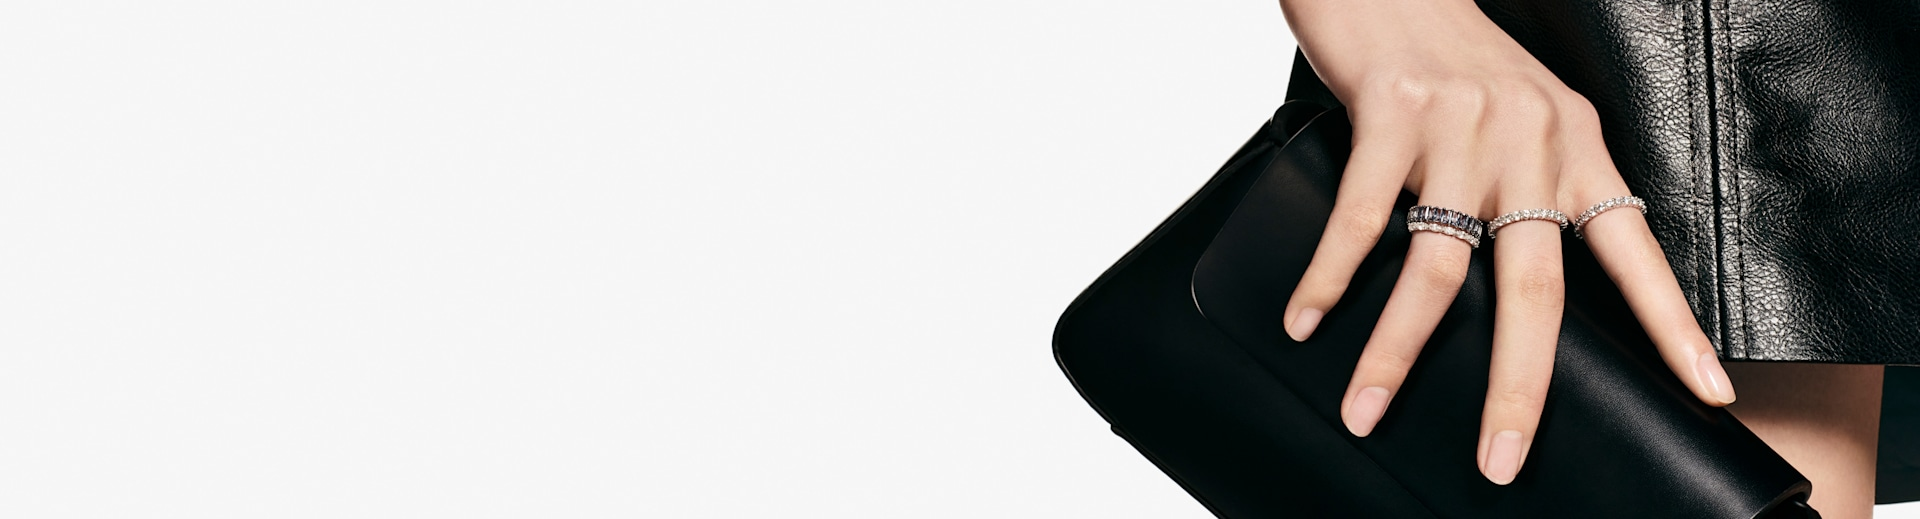
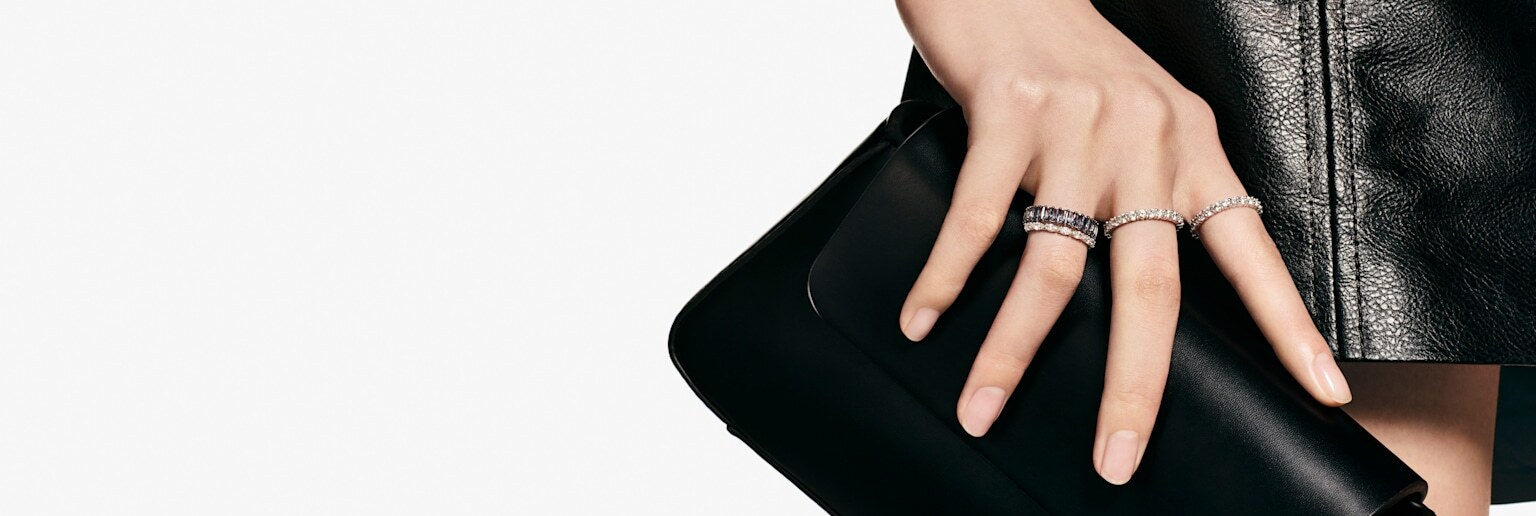
13-11-24 Mejoras Productos

diff --git a/src/pages/Aros/Aros.jsx b/src/pages/Aros/Aros.jsx
@@ -1,137 +1,61 @@
-// src/pages/Anillos/Anillos.jsx
-import React from 'react';
+import React, { useEffect, useState } from 'react';
 import './Aros.css';
 import { AiOutlineHeart } from 'react-icons/ai';
-import fotito from "../../assets/foto-producto2.png";
-import fondoimagen from "../../assets/foto-producto2.png";
-import loloolo from "../../assets/fondo-landing-copia.png"; // Ruta de ejemplo
+import fotito from "../../assets/foto-producto2.png"; // Imagen predeterminada en caso de no tener imagen
+
+import { fetchProductos } from '../../services/api'; // Importa la función para obtener productos
 
 const Aros = () => {
-  const productos = [
-    {
-      id: 1,
-      nombre: 'Anillo de cóctel Luna, Blanco, Baño de rodio',
-      precioOriginal: 425.0,
-      precioDescuento: 340.0,
-      descuento: 20,
-      cuotas: 18888,
-      imagen: fotito,
-    },
-    {
-      id: 2,
-      nombre: 'Anillo de cóctel Constella Talla princesa, Baño de rodio',
-      precioOriginal: 289.0,
-      precioDescuento: 231.2,
-      descuento: 20,
-      cuotas: 12844,
-      imagen: fotito,
-    },
-    {
-      id: 3,
-      nombre: 'Anillo Vittore Wide, Blanco, Baño de rodio',
-      precioOriginal: 379.0,
-      precioDescuento: 303.2,
-      descuento: 20,
-      cuotas: 16844,
-      imagen: fotito,
-    },
-    {
-      id: 4,
-      nombre: 'Anillo de compromiso, Oro blanco, Diamante de 1 quilate',
-      precioOriginal: 1200.0,
-      precioDescuento: 960.0,
-      descuento: 20,
-      cuotas: 53333,
-      imagen: fotito,
-    },
-    {
-      id: 5,
-      nombre: 'Anillo Hyperbola, Símbolo del infinito, Baño de rodio',
-      precioOriginal: 310.0,
-      precioDescuento: 248.0,
-      descuento: 20,
-      cuotas: 13778,
-      imagen: fotito,
-    },
-    {
-      id: 6,
-      nombre: 'Anillo Constella, Pavé, Baño tono oro rosa',
-      precioOriginal: 320.0,
-      precioDescuento: 256.0,
-      descuento: 20,
-      cuotas: 14222,
-      imagen: fotito,
-    },
-    {
-      id: 7,
-      nombre: 'Anillo Trilogy, Tres piedras, Baño de rodio',
-      precioOriginal: 410.0,
-      precioDescuento: 328.0,
-      descuento: 20,
-      cuotas: 18222,
-      imagen: fotito,
-    },
-    {
-      id: 8,
-      nombre: 'Anillo Victoria, Diseño floral, Baño de oro',
-      precioOriginal: 499.0,
-      precioDescuento: 399.2,
-      descuento: 20,
-      cuotas: 22178,
-      imagen: fotito,
-    },
-    {
-      id: 9,
-      nombre: 'Anillo solitario con zafiro, Baño de rodio',
-      precioOriginal: 600.0,
-      precioDescuento: 480.0,
-      descuento: 20,
-      cuotas: 26666,
-      imagen: fotito,
-    },
-    {
-      id: 10,
-      nombre: 'Anillo Twist, Dos tonos, Baño de rodio y oro rosa',
-      precioOriginal: 285.0,
-      precioDescuento: 228.0,
-      descuento: 20,
-      cuotas: 12667,
-      imagen: fotito,
-    },
-    {
-      id: 11,
-      nombre: 'Anillo Celestial, Inspirado en la luna, Baño de oro',
-      precioOriginal: 320.0,
-      precioDescuento: 256.0,
-      descuento: 20,
-      cuotas: 14222,
-      imagen: fotito,
-    },
-    {
-      id: 12,
-      nombre: 'Anillo Eternity, Diamantes de laboratorio, Baño de platino',
-      precioOriginal: 890.0,
-      precioDescuento: 712.0,
-      descuento: 20,
-      cuotas: 39556,
-      imagen: fotito,
-    },
-  ];
+  const [productos, setProductos] = useState([]);
+  const [loading, setLoading] = useState(true);
+  const [error, setError] = useState(null);
+
+  useEffect(() => {
+    const obtenerProductos = async () => {
+      try {
+        const data = await fetchProductos();
+        setProductos(data); // Guardamos los productos en el estado
+      } catch (error) {
+        setError('Error al obtener los productos.');
+      } finally {
+        setLoading(false);
+      }
+    };
+
+    obtenerProductos();
+  }, []); // Solo se ejecuta una vez cuando el componente se monta
+
+  if (loading) {
+    return <p>Cargando productos...</p>;
+  }
+
+  if (error) {
+    return <p>{error}</p>;
+  }
 
   return (
     <div className="anillos-container">
-      <header className="anillos-header">
+      <header className="aros-header">
         <h1 className="anillos-title">Aros colgantes</h1>
         <h3 className="anillos-subtitle">
-        Los aros colgantes de Zephyr son elementos elegantes y sofisticados, con cristales que llevan todo el encanto y la magia de la marca a los cuatro rincones del mundo.
+          Los aros colgantes de Zephyr son elementos elegantes y sofisticados, con cristales que llevan todo el encanto y la magia de la marca a los cuatro rincones del mundo.
         </h3>
       </header>
       <div className="anillos-grid">
         {productos.map((producto) => (
           <div className="producto-card" key={producto.id}>
-            <img src={producto.imagen} alt={producto.nombre} className="imagenloca" />
+            <img src={producto.imagen || fotito} alt={producto.nombre} className="imagenloca" />
             <h2 className="producto-nombre">{producto.nombre}</h2>
-            <p className="producto-precio-descuento">${producto.precioDescuento.toFixed(2)}</p>
+            <p className="producto-precio-descuento">
+              {
+                // Verifica si el precio es un número válido antes de aplicar toFixed
+                typeof producto.precio === "number" && !isNaN(producto.precio) 
+                ? `$${producto.precio.toFixed(2)}`
+                : "Precio no disponible"
+              }
+            </p>
+            <p className="producto-cuotas">Cuotas: {producto.cuotas}</p>
+            <AiOutlineHeart className="icono-favorito" />
           </div>
         ))}
       </div>
@@ -139,4 +63,4 @@ const Aros = () => {
   );
 };
 
-export default Aros;
+export default Aros

diff --git a/src/App.js b/src/App.js
@@ -1,7 +1,7 @@
 // src/App.js
-import React from 'react';
+import React, { useEffect } from 'react';
 import './App.css';
-import { BrowserRouter as Router, Route, Routes } from 'react-router-dom';
+import { BrowserRouter as Router, Route, Routes, useLocation } from 'react-router-dom';
 import Home from './pages/Home/Home';
 import Anillos from './pages/Anillos/Anillos';
 import Aros from './pages/Aros/Aros';
@@ -17,10 +17,21 @@ import Footer from './components/layout/Footer';
 import Header from './components/Header.js';
 import { AuthProvider } from './context/AuthContext';
 
+function ScrollToTop() {
+  const location = useLocation();
+
+  useEffect(() => {
+    window.scrollTo(0, 0);
+  }, [location]);
+
+  return null;
+}
+
 function App() {
   return (
     <AuthProvider>
       <Router>
+        <ScrollToTop />
         <div className="app-container">
           <Header />
           <main className="content">

diff --git a/src/pages/Buscar/Buscar.jsx b/src/pages/Buscar/Buscar.jsx
@@ -74,7 +74,7 @@ const Buscar = () => {
           <p>No se encontraron productos</p>
         ) : (
           resultados.map((producto) => (
-            <div key={producto.id} className="producto-card" onClick={() => handleProductoClick(producto.id)}>
+            <div key={producto.id} className="producto-resultado" onClick={() => handleProductoClick(producto.id)}>
               <div className="producto-info">
                 <h2>{producto.nombre}</h2>
                 <p>Precio: ${producto.precio}</p>

diff --git a/src/pages/Buscar/Buscar.css b/src/pages/Buscar/Buscar.css
@@ -94,7 +94,7 @@
     gap: 1rem;
   }
   
-  .producto-card {
+  .producto-resultado {
     padding: 1rem;
     border: 1px solid #ddd;
     border-radius: 5px;
@@ -113,7 +113,7 @@
     margin-top: 20px;
   }
   
-  .producto-card {
+  .producto-resultado {
     display: flex;
     justify-content: space-between;
     align-items: center;

diff --git a/src/pages/Aros/Aros.css b/src/pages/Aros/Aros.css
@@ -19,7 +19,7 @@ body {
   text-align: center;
 }
 
-.anillos-header {
+.aros-header {
   margin-top: 0;
   width: 100%;
   height: 500px;
